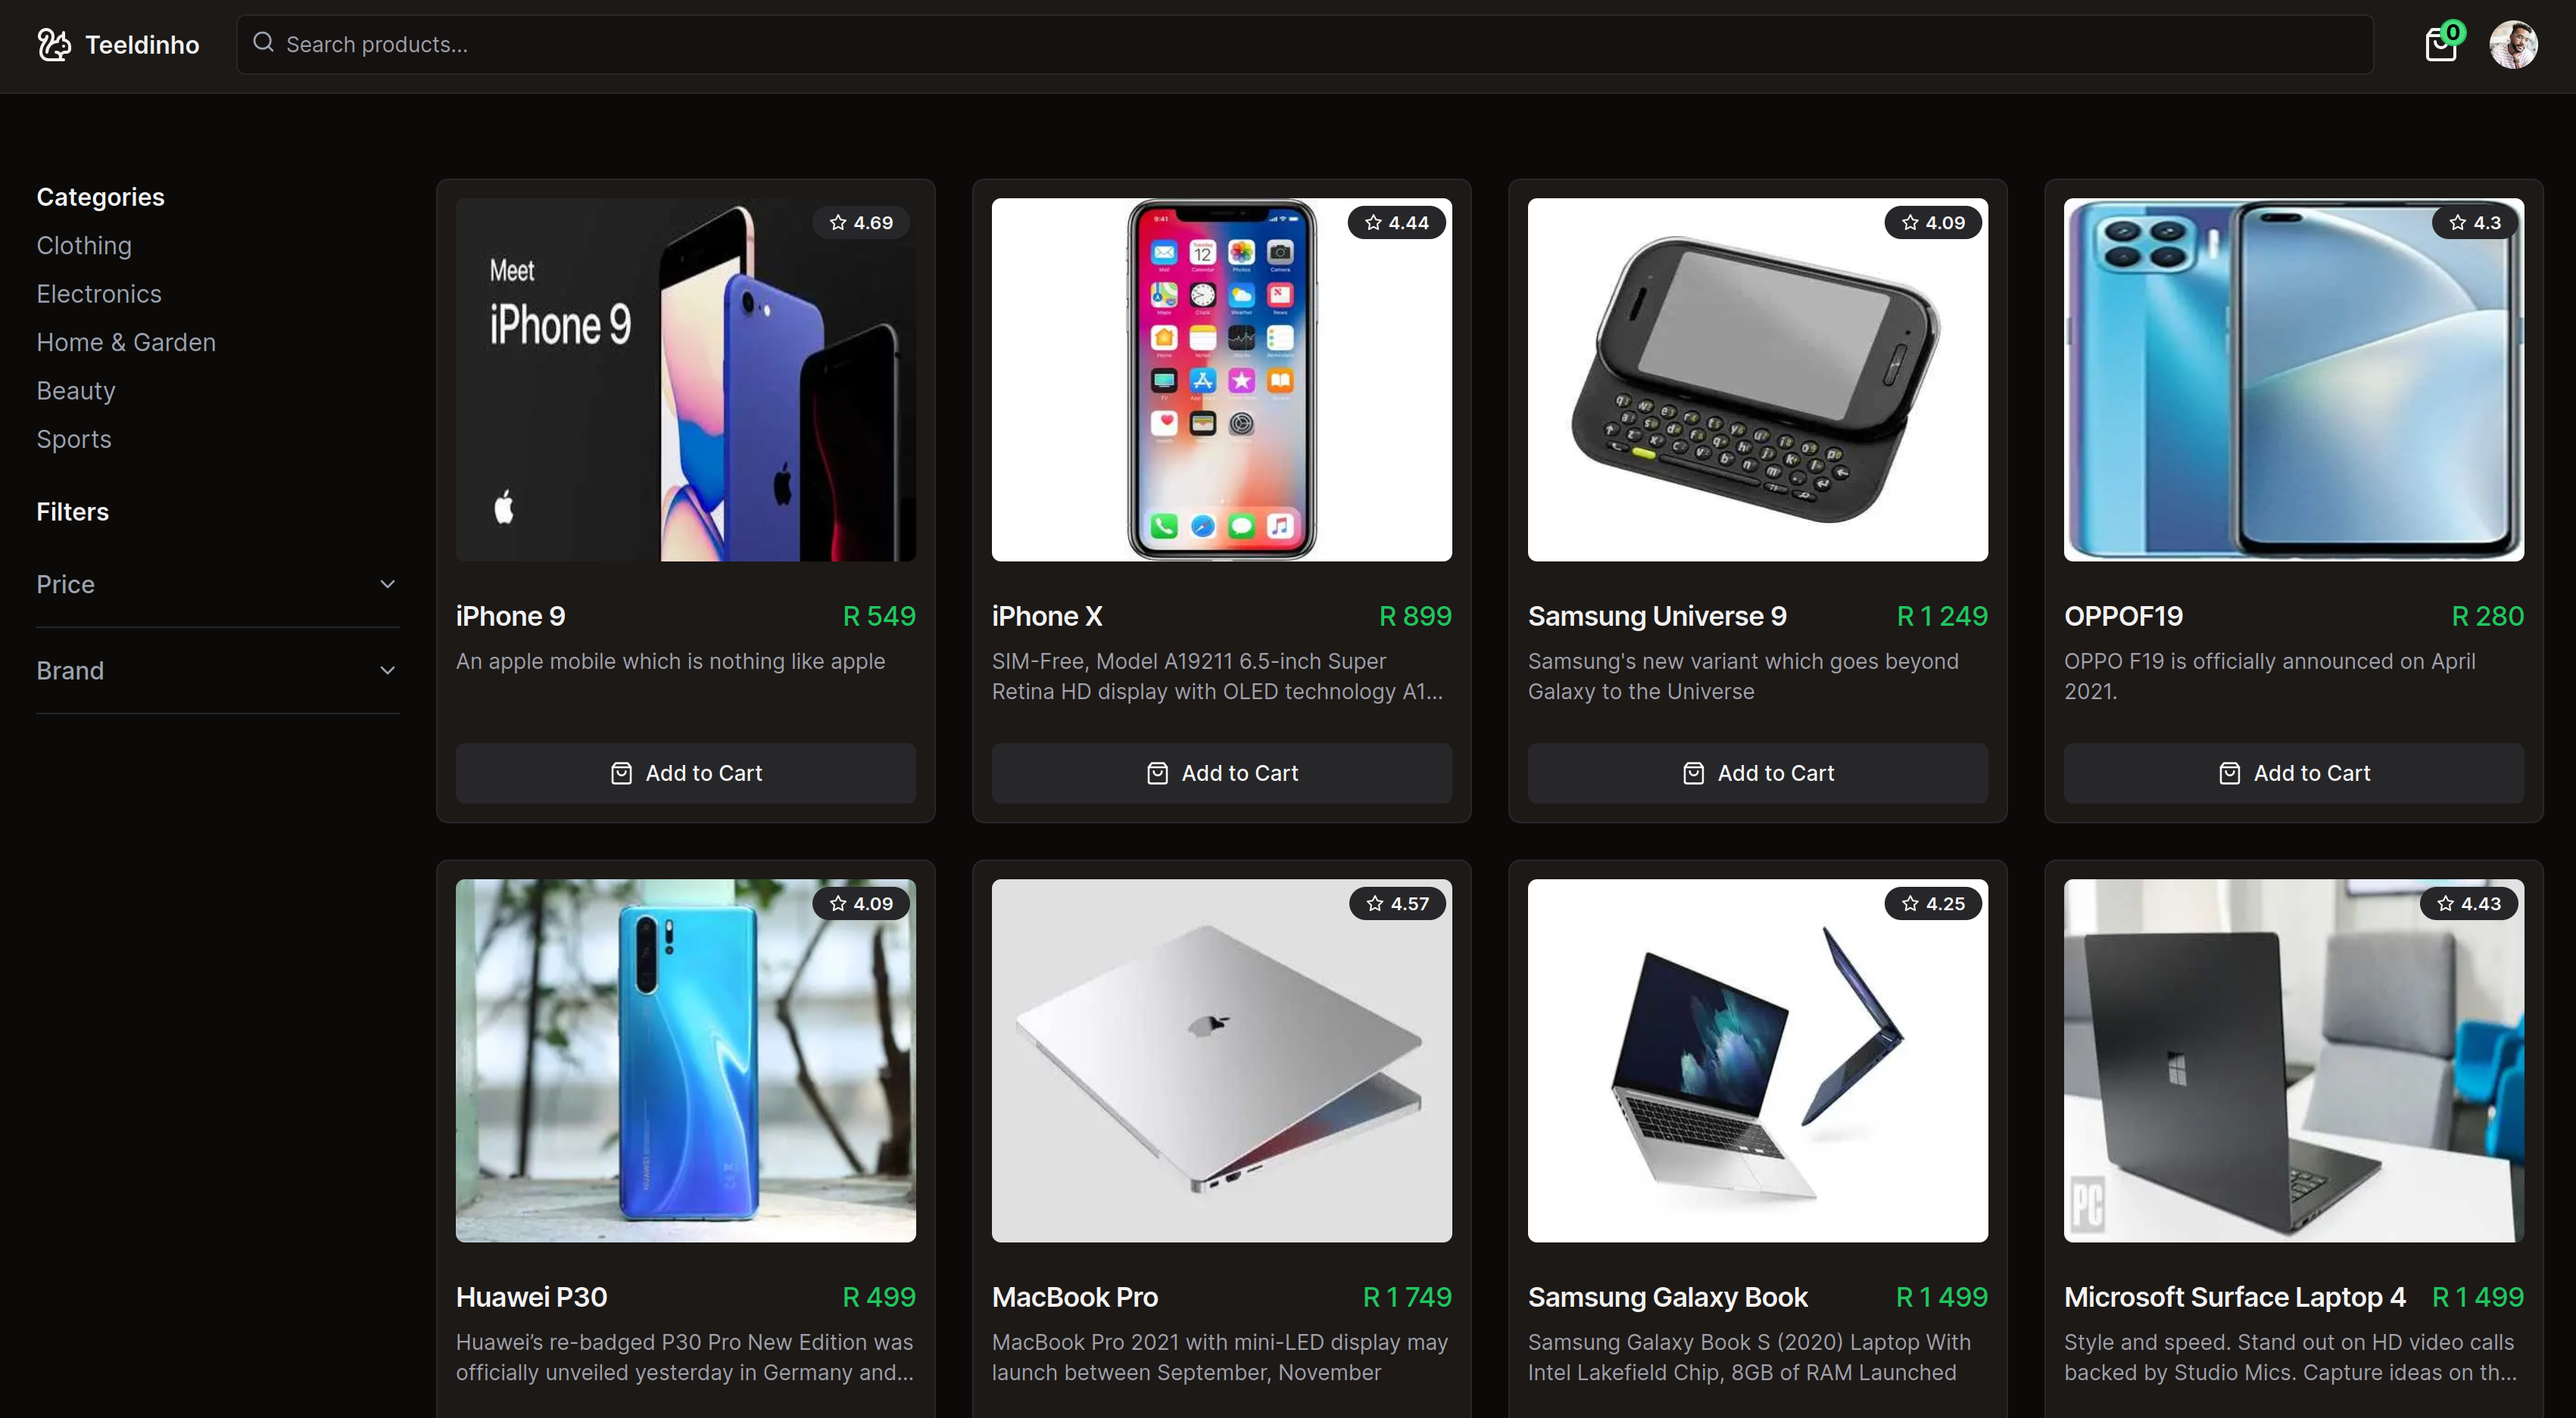
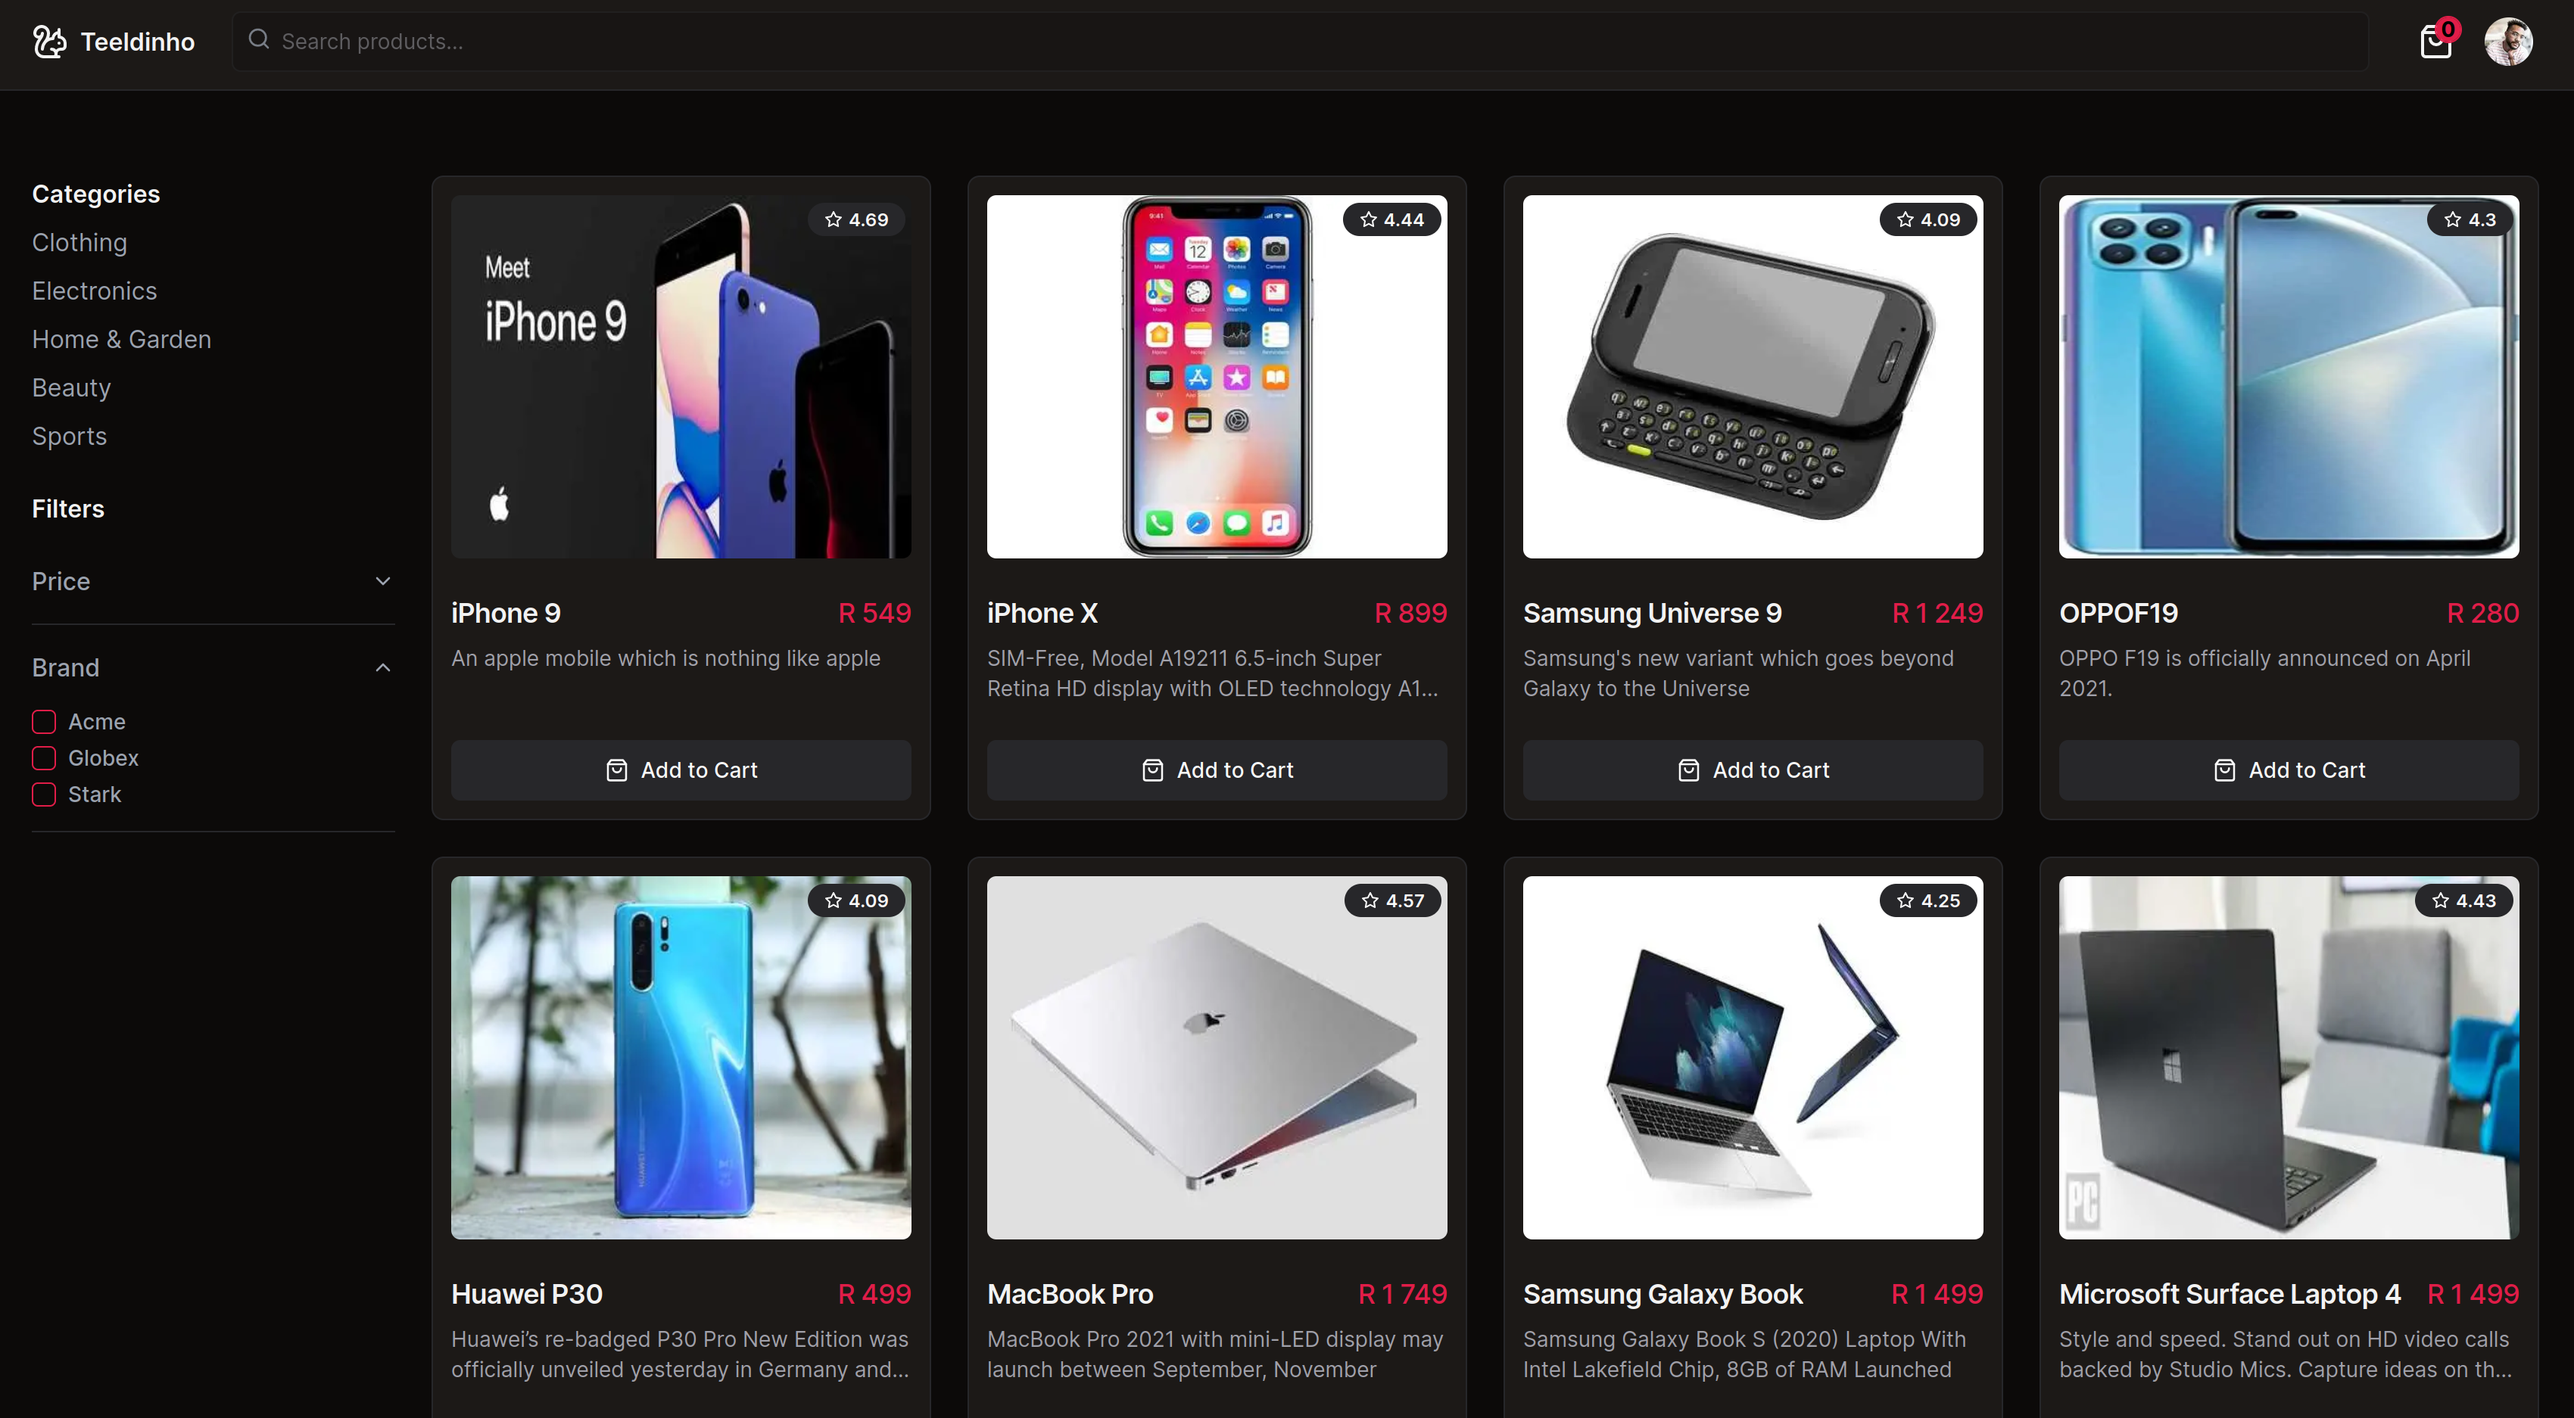
Changed the theming, disabled search, added some new screenshots to ReadMe.

diff --git a/src/app/(shopping)/shop/checkout/_checkout-components/PaymentForm.tsx b/src/app/(shopping)/shop/checkout/_checkout-components/PaymentForm.tsx
@@ -1,8 +1,9 @@
 "use client";
 
+import { useState } from "react";
 import { Button } from "@/components/ui/button";
 import { Separator } from "@/components/ui/separator";
-import { formatToRand } from "@/lib/utils";
+import { cn, formatToRand } from "@/lib/utils";
 import { useShopStore } from "@/providers/store-provider";
 import { ArrowRight } from "lucide-react";
 import { toast } from "sonner";
@@ -11,8 +12,18 @@ import { createCheckoutSession } from "@/app/_actions/carts-actions";
 
 const SHIPPING_FEE = 150;
 
+const buttonTextMapping: { [key: string]: string } = {
+  idle: "Place Order",
+  updating: "Updating Cart...",
+  loadingStripe: "Loading Payment...",
+  creatingSession: "Creating Session...",
+  redirecting: "Redirecting...",
+  error: "Try Again",
+};
+
 export default function PaymentForm() {
   const { cart, updateCart } = useShopStore((state) => state);
+  const [loadingState, setLoadingState] = useState("idle");
 
   if (!cart) {
     return <p>Cart is empty. Failed to pricing details.</p>;
@@ -22,16 +33,18 @@ export default function PaymentForm() {
   const orderTotal = total + SHIPPING_FEE;
 
   const handlePlaceOrder = async () => {
+    setLoadingState("updating");
     try {
       await updateCart();
-
+      setLoadingState("loadingStripe");
       const stripe = await loadStripe(process.env.NEXT_PUBLIC_STRIPE_PUBLIC_KEY as string);
 
+      setLoadingState("creatingSession");
       const { data: sessionId } = await createCheckoutSession(cart);
 
       if (stripe && sessionId) {
+        setLoadingState("redirecting");
         await stripe.redirectToCheckout({ sessionId });
-
         toast.info("Redirecting to payment", {
           description: `Your order total is ${formatToRand(orderTotal)}.`,
         });
@@ -39,11 +52,16 @@ export default function PaymentForm() {
         throw new Error("Failed to redirect to payment");
       }
     } catch (error) {
-      toast.error("Failed to redirect to payment", {
+      toast.error("Failed to process payment", {
         description: (error as Error).message,
       });
+      setLoadingState("error");
+    } finally {
+      setLoadingState("idle");
     }
   };
+
+  const buttonText = buttonTextMapping[loadingState];
 
   return (
     <div className="flex flex-col items-center w-full justify-between gap-4">
@@ -63,9 +81,14 @@ export default function PaymentForm() {
         </div>
       </div>
 
-      <Button className="w-full" size="lg" onClick={handlePlaceOrder}>
-        Place Order
-        <ArrowRight className="ml-2 size-4" />
+      <Button disabled={loadingState !== "idle"} className="w-full" size="lg" onClick={handlePlaceOrder}>
+        {buttonText}
+        <ArrowRight
+          className={cn(
+            "ml-2 size-4",
+            loadingState === "loadingStripe" || loadingState === "creatingSession" || loadingState === "redirecting" ? "animate-spin" : null
+          )}
+        />
       </Button>
     </div>
   );

diff --git a/src/app/(shopping)/shop/_shop-components/LayoutSide.tsx b/src/app/(shopping)/shop/_shop-components/LayoutSide.tsx
@@ -11,19 +11,19 @@ export default function LayoutSide() {
         <div>
           <h3 className="font-semibold text-foreground mb-2">Categories</h3>
           <nav className="grid gap-2">
-            <Link className="text-muted-foreground hover:text-foreground dark:text-gray-400 dark:hover:text-gray-50" href="#">
+            <Link aria-disabled className="text-muted-foreground hover:text-foreground dark:text-gray-400 dark:hover:text-gray-50" href="#">
               Clothing
             </Link>
-            <Link className="text-muted-foreground hover:text-foreground dark:text-gray-400 dark:hover:text-gray-50" href="#">
+            <Link aria-disabled className="text-muted-foreground hover:text-foreground dark:text-gray-400 dark:hover:text-gray-50" href="#">
               Electronics
             </Link>
-            <Link className="text-muted-foreground hover:text-foreground dark:text-gray-400 dark:hover:text-gray-50" href="#">
+            <Link aria-disabled className="text-muted-foreground hover:text-foreground dark:text-gray-400 dark:hover:text-gray-50" href="#">
               Home & Garden
             </Link>
-            <Link className="text-muted-foreground hover:text-foreground dark:text-gray-400 dark:hover:text-gray-50" href="#">
+            <Link aria-disabled className="text-muted-foreground hover:text-foreground dark:text-gray-400 dark:hover:text-gray-50" href="#">
               Beauty
             </Link>
-            <Link className="text-muted-foreground hover:text-foreground dark:text-gray-400 dark:hover:text-gray-50" href="#">
+            <Link aria-disabled className="text-muted-foreground hover:text-foreground dark:text-gray-400 dark:hover:text-gray-50" href="#">
               Sports
             </Link>
           </nav>

diff --git a/src/app/globals.css b/src/app/globals.css
@@ -10,7 +10,7 @@
     --card-foreground: 240 10% 3.9%;
     --popover: 0 0% 100%;
     --popover-foreground: 240 10% 3.9%;
-    --primary: 142.1 76.2% 36.3%;
+    --primary: 346.8 77.2% 49.8%;
     --primary-foreground: 355.7 100% 97.3%;
     --secondary: 240 4.8% 95.9%;
     --secondary-foreground: 240 5.9% 10%;
@@ -22,7 +22,7 @@
     --destructive-foreground: 0 0% 98%;
     --border: 240 5.9% 90%;
     --input: 240 5.9% 90%;
-    --ring: 142.1 76.2% 36.3%;
+    --ring: 346.8 77.2% 49.8%;
     --radius: 0.5rem;
   }
 
@@ -33,8 +33,8 @@
     --card-foreground: 0 0% 95%;
     --popover: 0 0% 9%;
     --popover-foreground: 0 0% 95%;
-    --primary: 142.1 70.6% 45.3%;
-    --primary-foreground: 144.9 80.4% 10%;
+    --primary: 346.8 77.2% 49.8%;
+    --primary-foreground: 355.7 100% 97.3%;
     --secondary: 240 3.7% 15.9%;
     --secondary-foreground: 0 0% 98%;
     --muted: 0 0% 15%;
@@ -45,7 +45,7 @@
     --destructive-foreground: 0 85.7% 97.3%;
     --border: 240 3.7% 15.9%;
     --input: 240 3.7% 15.9%;
-    --ring: 142.4 71.8% 29.2%;
+    --ring: 346.8 77.2% 49.8%;
   }
 }
 

diff --git a/src/app/page.tsx b/src/app/page.tsx
@@ -15,7 +15,7 @@ export default async function Home() {
     <Suspense fallback={<div>Loading Home Page...</div>}>
       <main className="flex min-h-screen flex-col bg-background">
         <section className="relative h-[30dvh] w-full bg-card">
-          <ImagesSlider className="h-full relative" images={images}>
+          <ImagesSlider className="h-full" images={images}>
             <div className="absolute inset-0 z-50 flex flex-col items-center justify-center space-y-4 text-center">
               <h1 className="text-4xl font-bold tracking-tighter md:text-5xl lg:text-6xl">Shop Everything</h1>
               <p className="max-w-[600px] md:text-xl text-muted-foreground">Find the perfect item for you or your loved ones.</p>

diff --git a/src/app/(shopping)/shop/_shop-components/CartViewDrawer.tsx b/src/app/(shopping)/shop/_shop-components/CartViewDrawer.tsx
@@ -18,7 +18,7 @@ export default function CartViewDrawer() {
       <DrawerTrigger asChild>
         <Button className="rounded-full" size="icon" variant="ghost">
           <div className="relative">
-            <div className="absolute size-4 flex items-center justify-center ring-1 ring-primary bg-green-400 text-sm rounded-full -right-1 -top-1 text-black font-bold">
+            <div className="absolute size-4 flex items-center justify-center ring-1 ring-primary bg-primary text-sm rounded-full -right-1 -top-1 text-black font-bold">
               {cart?.totalQuantity ?? 0}
             </div>
             <ShoppingBag className="size-6 text-foreground" />

diff --git a/src/app/layout.tsx b/src/app/layout.tsx
@@ -25,7 +25,7 @@ export default function RootLayout({
       <body className={cn("dark min-h-screen bg-background font-sans antialiased", fontSans.variable)}>
         <ShopStoreProvider>
           {children}
-          <Toaster richColors position="bottom-center" />
+          <Toaster richColors position="top-center" />
         </ShopStoreProvider>
       </body>
     </html>

diff --git a/src/app/(shopping)/shop/_shop-components/LayoutHeader.tsx b/src/app/(shopping)/shop/_shop-components/LayoutHeader.tsx
@@ -38,6 +38,7 @@ export default function LayoutHeader({ children }: { children?: ReactElement }) 
             className="w-full  bg-background/50 shadow-none appearance-none pl-8 pr-4 py-2 rounded-md"
             placeholder="Search products..."
             type="search"
+            disabled
           />
         </div>
       </div>

diff --git a/src/stores/slices/CartSlice.ts b/src/stores/slices/CartSlice.ts
@@ -36,7 +36,7 @@ export const initialCartSliceState: CartSlice = {
 
 const debouncedUpdateCart = debounce(async (updateCart: () => Promise<void>) => {
   await updateCart();
-}, 1000);
+}, 500);
 
 export const createCartSlice: SliceCreator<keyof CartSlice> = (set, get) => ({
   ...initialCartSliceState,

diff --git a/README.md b/README.md
@@ -27,6 +27,7 @@ Teeldinho Store is an e-commerce minimum viable product (MVP) that showcases an 
 - **Framer Motion**: Utilized for animations and enhancing user experience.
 - **Lucide React**: Included for icon components.
 - **React Hook Form**: Applied for form handling and validation.
+- **Zod Schema Validator**: Provides robust type safety and data validation across server actions and client forms, ensuring data integrity and enhancing TypeScript integration.
 - **Sonner**: Used for toast notifications.
 
 ## Key Features
@@ -115,6 +116,10 @@ By using the test card information, you can thoroughly test the payment process 
 
 ## Screenshots
 
+![Hero Page](public/hero.png)
+
+![Auth Page](public/sign.png)
+
 ![Shop Page](public/shop-page.png)
 
 ![Product Page](public/product-page.png)
@@ -126,5 +131,7 @@ By using the test card information, you can thoroughly test the payment process 
 ![Stripe Checkout Page](public/stripe-checkout.png)
 
 ![Payment Page](public/payment-page.png)
+
+![Empty Cart](public/empty.png)
 
 ![Account Dropdown](public/account.png)
